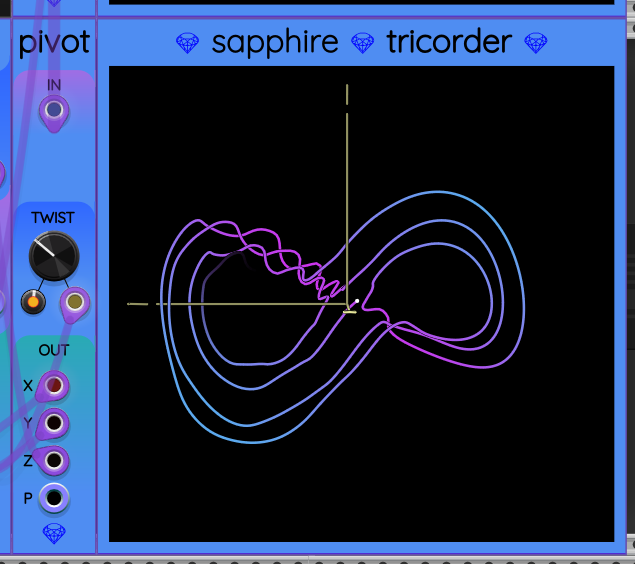
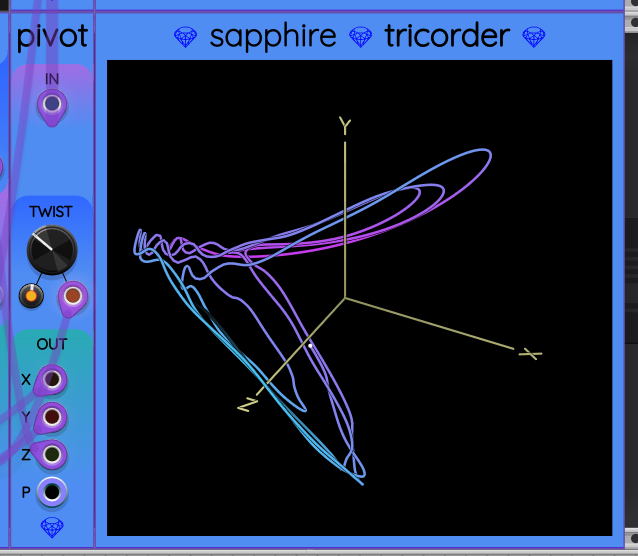
Pivot doc: Copyediting. Better Pivot/Tricorder screen shot.

diff --git a/Pivot.md b/Pivot.md
@@ -5,7 +5,8 @@
 Pivot receives a 3D input vector, twists it by a CV-adjustable angle,
 and outputs the result as another 3D vector.
 This module, in combination with [Frolic](Frolic.md), [Glee](Glee.md), and [Rotini](Rotini.md),
-can create novel chaotic control signals for modulating generative movement in your patches.
+can create an umlimited number of chaotic control signals for modulating generative
+movement in your patches.
 
 ## Input port
 
@@ -19,8 +20,8 @@ The 3 voltages represent the coordinates of a vector in 3D space.
 
 Pivot rotates the coordinate frame around the diagonal axis that passes
 through both (0,&nbsp;0,&nbsp;0) and (1,&nbsp;1,&nbsp;1). This axis was chosen because it
-provides the ability to perform axis swapping: the point (x,&nbsp;y,&nbsp;z) can
-be replaced with (y,&nbsp;z,&nbsp;x) or (z,&nbsp;x,&nbsp;y) when the twist angle is 120&deg; or 240&deg; respectively.
+cycles through the coordinate axes using the right-hand rule:
+the point (x,&nbsp;y,&nbsp;z) can be replaced with (y,&nbsp;z,&nbsp;x) or (z,&nbsp;x,&nbsp;y) when the twist angle is 120&deg; or 240&deg; respectively.
 There is a continuum of other orientations for angles between these values.
 
 ## Twist angle
@@ -43,17 +44,16 @@ Here are examples of output vectors for different integer TWIST values:
 * +2 &rarr; (z, x, y)
 * +3 &rarr; (x, y, z)
 
-## Vector graphing with Tricorder
-
-You can place a [Tricorder](Tricorder.md) immediately to the right of a Pivot to graph
-Pivot's output. Having a 3D oscilloscope helps you better understand your signal as you
-tweak patch settings.
-
-![Pivot graphed by Tricorder](images/pivot_tricorder.png)
-
 ## Output ports
 
 The output of Pivot is a 3D vector, provided two ways:
 
 * The monophonic outputs `X`, `Y`, and `Z`.
 * The 3-channel polyphonic output `P` in the format `(X, Y, Z)`.
+
+## Vector graphing with Tricorder
+
+You can place a [Tricorder](Tricorder.md) immediately to the right of a Pivot to graph
+its output. Having a 3D oscilloscope helps you better understand the signal.
+
+![Pivot graphed by Tricorder](images/pivot_tricorder.png)
